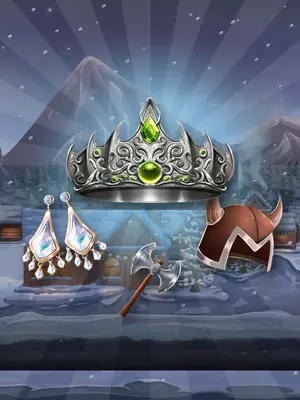
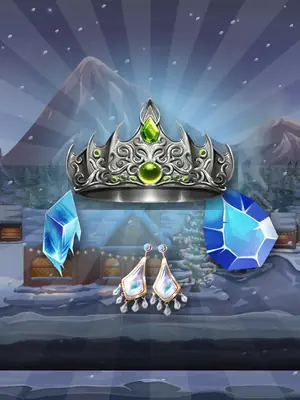
Round 25: theme audit; Frozen Peaks ice symbols
Claude-Session: https://claude.ai/code/session_01LcC21fng844zb5K8BRYuAt

diff --git a/LuckyVault/public/sw.js b/LuckyVault/public/sw.js
@@ -1,5 +1,5 @@
 // Offline cache for the game client (API calls always go to the network).
-const V = 'lv-v80';
+const V = 'lv-v81';
 const FILES = ['./', './index.html', './config.js', './manifest.webmanifest', './js/slots-engine.js', './js/catalog.js', './js/tables-engine.js', './js/tables-ui.js', './js/social.js', './js/fx.js', './js/feat-ui.js', './js/hov-ui.js', './js/roadmap.js', './js/vegas.js', './js/rules.js', './js/onboard.js', './js/friends-ui.js', './js/rg.js', './js/support-ui.js', './js/replay.js', './js/fx2.js', './js/i18n.js', './js/iap.js', './assets/fonts/Anton.woff2', './assets/fonts/Cinzel.woff2', './icons/icon-192.png', './icons/icon-512.png'];
 self.addEventListener('install', e => { e.waitUntil(caches.open(V).then(c => c.addAll(FILES)).then(() => self.skipWaiting())); });
 self.addEventListener('activate', e => { e.waitUntil(caches.keys().then(ks => Promise.all(ks.filter(k => k !== V).map(k => caches.delete(k)))).then(() => self.clients.claim())); });

diff --git a/LuckyVault/tools/build_skins.py b/LuckyVault/tools/build_skins.py
@@ -298,3 +298,4 @@ json.dump(man, open(OUT + '/manifest.json', 'w'), indent=1, ensure_ascii=False)
 # round 22: triple-sevens: 777/BAR/diamond/star hue +190 (cyan), lows -> kit items 10 cards, 14 dice, 15 banana (was 7/11 identical to lucky-777)
 # round 23: buffalo-wild-reels <- CraftPix hunting-trophy loot icons (cpx eb4d967a): 3 skull,7 stag,8 boar,13 horns,17 bear paw,25 pelt,5 fang,47 feather,42 antler (W/S kept)
 # round 24: wild-cherry-deluxe highs <- fruits-512 30 cherries,31 raspberry,38 strawberry,11 mango (game had no cherry symbol)
+# round 25: name/theme audit -> frozen-peaks h3/h4 (viking helmet, axe) -> gems 40 ice shard, 17 blue crystal

diff --git a/LuckyVault/CHANGELOG.md b/LuckyVault/CHANGELOG.md
@@ -404,3 +404,8 @@ Platform release: everything on the "do all of these" list except the public dep
 
 ## Round 24 (19:20) — Wild Cherry Deluxe finally has cherries
 - Top symbol is now cherries (+ raspberry, strawberry, mango); no longer mirrors Monkey Business' fruit. New cover. sw lv-v80. Tests 90/90.
+
+## Round 25 (19:25) — Symbol vs name audit of all 96 skinned slots
+- Contact-sheet review of every slot's top symbols against its name. Fixed Frozen Peaks (viking helmet/axe -> ice shard, blue crystal) + cover.
+- Remaining mismatches parked for paid/painted assets: Egypt group (Nile Queen, Pharaoh Gold, Sun God Ra, Egypt Riches use generic jewellery), Buffalo Stampede/Thunder (viking loot, no buffalo), Zeus (generic treasure). Free Egypt pack found is cartoon-outline style -> skipped per style rule.
+- sw lv-v81. Tests 90/90.
